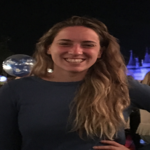
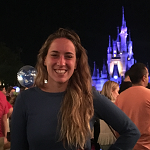
About us Vicki

diff --git a/AboutUs.html b/AboutUs.html
@@ -33,27 +33,21 @@
     </div>
     <div class="cuerpo">
         <div class="aboutus">
-            <p>Morbi mauris dui, semper a ultricies ut, euismod vel mauris. Aliquam quis purus eleifend, placerat
-                mi
-                vitae,
-                sodales arcu. Quisque tincidunt faucibus enim, sollicitudin vulputate elit elementum sit amet.
-                Pellentesque
-                habitant morbi tristique senectus et netus et malesuada fames ac turpis egestas. Ut gravida sed
-                tellus
-                sollicitudin porttitor. Nullam pharetra risus diam. Integer a rhoncus libero, vitae vehicula nibh.
-                Aenean
-                auctor tincidunt libero ut feugiat. Proin a tortor eu ex auctor placerat in id tellus. Nulla id
-                libero
-                dictum, dignissim magna vitae, aliquam erat. Maecenas facilisis, felis non gravida dignissim, ex
-                augue
-                sagittis tellus, nec venenatis enim enim eget erat.</p>
+            <p>Hola Mundo está conformado por cuatro egresadas de Ada ITW. Nuestra meta es lograr representar a la
+                institución que nos formó, utilizando nuestro conocimiento para entender las necesidades del cliente y
+                poder devolverle un sitio web incluso mejor que el que se imaginó. Desde que armamos la agencia pudimos
+                trabajar con clientes muy importantes, y crear sitios web variado, optimizados para cada pedido.
+                Esperamos seguir creciendo como agencia y fidelizando clientes.
+            </p>
         </div>
         <div class="us">
             <div class="primera">
                 <div class="foto uno"> </div>
                 <div>
-                    <p>Mi llamo Marianela, soy rosarina aunque muchos me tildan de trucha dado que solo vivi en Rosario mi primer año de vida. 
-                        Por ahora, soy contadora y trabajo en finanzas pero no descarto pasarme al lado oscuro (ingenieria). Me encanta jugar al futbol y en el futbol mixto
+                    <p>Mi llamo Marianela, soy rosarina aunque muchos me tildan de trucha dado que solo vivi en Rosario
+                        mi primer año de vida.
+                        Por ahora, soy contadora y trabajo en finanzas pero no descarto pasarme al lado oscuro
+                        (ingenieria). Me encanta jugar al futbol y en el futbol mixto
                         de la oficina me dicen "tanque".
                     </p>
                 </div>
@@ -61,9 +55,12 @@
             <div class="primera">
                 <div>
                     <p>
-                        Mi nombre es Catalina, tengo 29 años y soy de Buenos Aires. Soy estudiante de psicología, cantante, bajista y 
-                        en un futuro (espero no muy lejano) programadora. <br>Me encanta hacer cosas nuevas todo el tiempo, soy una manija, reconocida 
-                        entre mis amigos por estar siempre haciendo cosas distintas. Me encanta programar y con este tp me di cuenta que manqueo en el 
+                        Mi nombre es Catalina, tengo 29 años y soy de Buenos Aires. Soy estudiante de psicología,
+                        cantante, bajista y
+                        en un futuro (espero no muy lejano) programadora. <br>Me encanta hacer cosas nuevas todo el
+                        tiempo, soy una manija, reconocida
+                        entre mis amigos por estar siempre haciendo cosas distintas. Me encanta programar y con este tp
+                        me di cuenta que manqueo en el
                         diseño y no se nada de colores.
                     </p>
                 </div>
@@ -86,14 +83,11 @@
             <div class="primera">
                 <div>
                     <p>
-                        Etiam purus eros, pellentesque id sagittis sed, gravida sed velit. Vivamus mollis magna eget
-                        arcu
-                        sagittis, id auctor ex eleifend. Nam ante velit, volutpat non nunc quis, facilisis rhoncus
-                        enim.
-                        Vivamus vestibulum consequat ligula eu sollicitudin. Vestibulum mattis iaculis quam at gravida.
-                        Nullam
-                        ultricies porta interdum. Integer condimentum lacus feugiat, vestibulum ante a, hendrerit
-                        magna.</p>
+                        Mi nombre es Victoria, tengo 26 años y me encanta la cultura japonesa. En estos años estudié
+                        diversas carreras como, por ejemplo, diseño audiovisual y de indumentaria. Hace dos años
+                        comencé a trabajar con código, y comprendí a qué me quiero dedicar. Me encanta estudiar
+                        idiomas, los gatitos y comer.
+                    </p>
                 </div>
                 <div class="foto cuatro"></div>
             </div>

diff --git a/style_aboutus.css b/style_aboutus.css
@@ -64,6 +64,8 @@ a {
   justify-content: center;
   background-color: whitesmoke;
   margin: 10px;
+  -webkit-border-radius: 20px;
+  -moz-border-radius: 20px;
   border-radius: 20px;
   -webkit-box-shadow: 4px 4px 8px 1px rgba(156,156,156,1);
   -moz-box-shadow: 4px 4px 8px 1px rgba(156,156,156,1);
@@ -76,7 +78,7 @@ a {
   -webkit-box-shadow: 4px 4px 8px 1px rgba(156,156,156,1);
   -moz-box-shadow: 4px 4px 8px 1px rgba(156,156,156,1);
   box-shadow: 4px 4px 8px 1px rgba(156,156,156,1);
-  background-color:  whitesmoke;
+  background-color:  rgba(245, 245, 245, 0.534);
   display:flex;
   flex-direction: column;
   align-items: center;
@@ -91,9 +93,13 @@ a {
 }
 
 .aboutus p {
-    margin-left: 50px;
-    margin-right: 50px;
-    font-size: 1.2em;
+   margin-left: 50px;
+  margin-right: 50px;
+  font-size: 1.2em;
+  background-color: whitesmoke;    
+  -webkit-border-radius: 10px;
+  -moz-border-radius: 10px;
+  border-radius: 10px;
 }
 
 .us {
@@ -118,6 +124,8 @@ a {
   height: 150px;
   width: 150px;
   border-radius: 150px;
+  -webkit-border-radius: 150px;
+  -moz-border-radius: 150px;
 }
 
 .uno {
@@ -126,7 +134,10 @@ a {
 
 .primera p {
   width: 50vw;
-  margin-left: 15px;  
+  margin-left: 15px;
+  background-color: whitesmoke;  
+  padding: 5px;
+
 }
 
 .dos {
@@ -141,7 +152,7 @@ a {
 }
 
 .cuatro {
-  background-image: url('img/Cuarta2.jpg');
+  background-image: url('img/aboutUs Vicki.jpg');
   
 }
 
@@ -195,6 +206,8 @@ footer .logo {
 
 .button {
   border: 1px solid #dcdcdf;
+  -webkit-border-radius: 5px;
+  -moz-border-radius: 5px;
   border-radius: 5px;
   background-color: #eae8fc;
   height: 20px;
